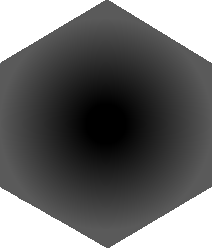
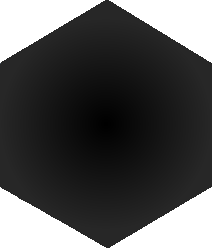
15 CHANGES... i dont remember what

diff --git a/src/components/tile/GameTile.jsx b/src/components/tile/GameTile.jsx
@@ -2,11 +2,12 @@ import React from 'react';
 import css from './gameTile.module.css';
 import Token from '../token/Token';
 import { importedTileImages } from '../../dummyDatabse/tileImages';
+import { applyFilter } from '../../dummyDatabse/tilesFilters';
 
-const GameTile = ({id, posLeft, posTop, image, func=null, showId=false, formation=null }) => {
+const GameTile = ({id, posLeft, posTop, image, func=null, showId=false, formation=null, status=null}) => {
   
   const tileImage = image ? importedTileImages[image] : null;
-
+  const filterImage = status ? applyFilter[status] : null;
   const tileclickedHandler = (e) => {
     //console.log("x",e.clientX,"y", e.clientY, "posLeft", posLeft, "posTop", posTop);
     
@@ -48,7 +49,11 @@ const GameTile = ({id, posLeft, posTop, image, func=null, showId=false, formatio
         {showId && <p>{id}</p>}
         {formation && <Token formation={formation} />}
       </div>
-      
+      <div name='filter' className={css.tileFilter}
+      style={{
+        backgroundImage:`url(${filterImage})`,
+        zIndex:'4',
+      }} />
     </div>
   )
 }

diff --git a/src/functions/gameMapReader.js b/src/functions/gameMapReader.js
@@ -14,7 +14,6 @@ const handleLeft = (y, x) => {
 }
 
 export const gameMapReader = (mapbject, action=null, showTilesId=false) => {
-    //map is a nested array 
     const terrainMap = mapbject.map;
     return (
         <div className="mapArea" style={{mapAreaStyle}}>  
@@ -30,10 +29,12 @@ export const gameMapReader = (mapbject, action=null, showTilesId=false) => {
                             posLeft={handleLeft(y, x)} 
                             tileWidth={side} 
                             tileHeight={side + 5}
-                            func={action}     
-                            //varible items
+                            func={action}  
+
+                            //game varible items
                             objective={tile.objective} 
                             formation={tile.formation}
+                            status={tile.status}
                         />
                     ))
                 ))

diff --git a/src/components/tile/gameTile.module.css b/src/components/tile/gameTile.module.css
@@ -1,3 +1,4 @@
+
 .Tile{
     background-size: 75px 75px;   
     background-repeat: no-repeat;
@@ -8,6 +9,7 @@
     justify-content:center;
     align-items:center;
     position: absolute; 
+    z-index: 1;
 }
 
 .selected{
@@ -25,8 +27,7 @@
     display: grid;
     grid-template-columns: repeat(3, 1fr);
     gap: 2px;
-    grid-auto-rows: minmax(15px, 15px);
-    background-color: aqua;
+    grid-auto-rows: minmax(15px, 15px);  
     font-size: 10px;
 }
 
@@ -40,4 +41,27 @@
     -ms-user-select: none;
     user-select: none;
     text-shadow: 0 0 5px black;
+}
+
+.tileFilter{
+    position:absolute;
+    width: 75px;
+    height: 75px;
+    background-size: 75px 75px;
+}
+
+.disabled{
+    z-index: 5;
+}
+
+.outSight{
+    z-index: 5;
+}
+
+.selected{
+    z-index: 2;
+}
+
+.unexplored{
+    z-index: 5;
 }

diff --git a/src/classes/Tile.js b/src/classes/Tile.js
@@ -1,12 +1,14 @@
 export class Tile {
-    constructor(id, 
+    status = "unexplored"//disabled outSight     selected unexplored  onSight
+
+    constructor(
+        id, 
         terrain=null,
-        
         formation = null,
         is_starting_position = false,
         objective = false,
         resources = [],
-        buildings = [],
+        building = [],
         actions = [],
         owned_by = undefined,
         ){
@@ -16,9 +18,8 @@ export class Tile {
         this.is_starting_position = is_starting_position
         this.owned_by = owned_by
         this.resources = resources
-        this.buildings = buildings
+        this.building = building
         this.objective = objective
         this.actions = actions
-        
     }
 }

diff --git a/src/components/token/token.module.css b/src/components/token/token.module.css
@@ -10,6 +10,7 @@
     justify-content: center;
     align-items: center;
     flex-wrap: wrap;
+    z-index: 2;
 }
 
 .tokenContent{
@@ -38,16 +39,7 @@
     border-radius: 5px;
 }
 
-.tokenIcons{
-    margin-top: 5px;
-    width: 40px;
-    height: 20px;
-    display: flex;
-    flex-wrap: wrap;
-    flex-direction: row;
-    justify-content: center;
-    align-items: center;
-}
+
 .tokenIcon{
     padding: 0;
     margin: 0;
@@ -55,4 +47,5 @@
     height: 30px;
     background-size: 80%;
     background-repeat: no-repeat;
+    z-index: 3;
 }

diff --git a/src/dummyDatabse/tilesFilters.js b/src/dummyDatabse/tilesFilters.js
@@ -1,0 +1,14 @@
+import disabled from '../assets/tile_filters/disabled.png';
+import outSight from '../assets/tile_filters/outSight.png';
+import selected from '../assets/tile_filters/selected.png';
+import unexplored from '../assets/tile_filters/unexplored.png';
+import black from '../assets/tile_filters/black.png';
+
+export const applyFilter = {
+    disabled: disabled,
+    outSight: outSight,
+    selected: selected,
+    unexplored: black,
+    onSight: null,
+    black: unexplored //switched
+}

diff --git a/src/classes/formation.js b/src/classes/formation.js
@@ -19,6 +19,7 @@ export class Formation {
     point_const = 0  
     carry_capacity = 0 //from the units
     infantry_count = 0
+    isBeen = false
 
     constructor(name, composition, s_description="", l_description="", image="", faction="", subfaction=""){
       this.name = name

diff --git a/src/components/token/Token.jsx b/src/components/token/Token.jsx
@@ -48,6 +48,7 @@ function Token({formation}) {
         }} /> 
         })
       }
+      {formation.isBeen && <div className="filter" ></div>} 
     </div>
   )
 }
